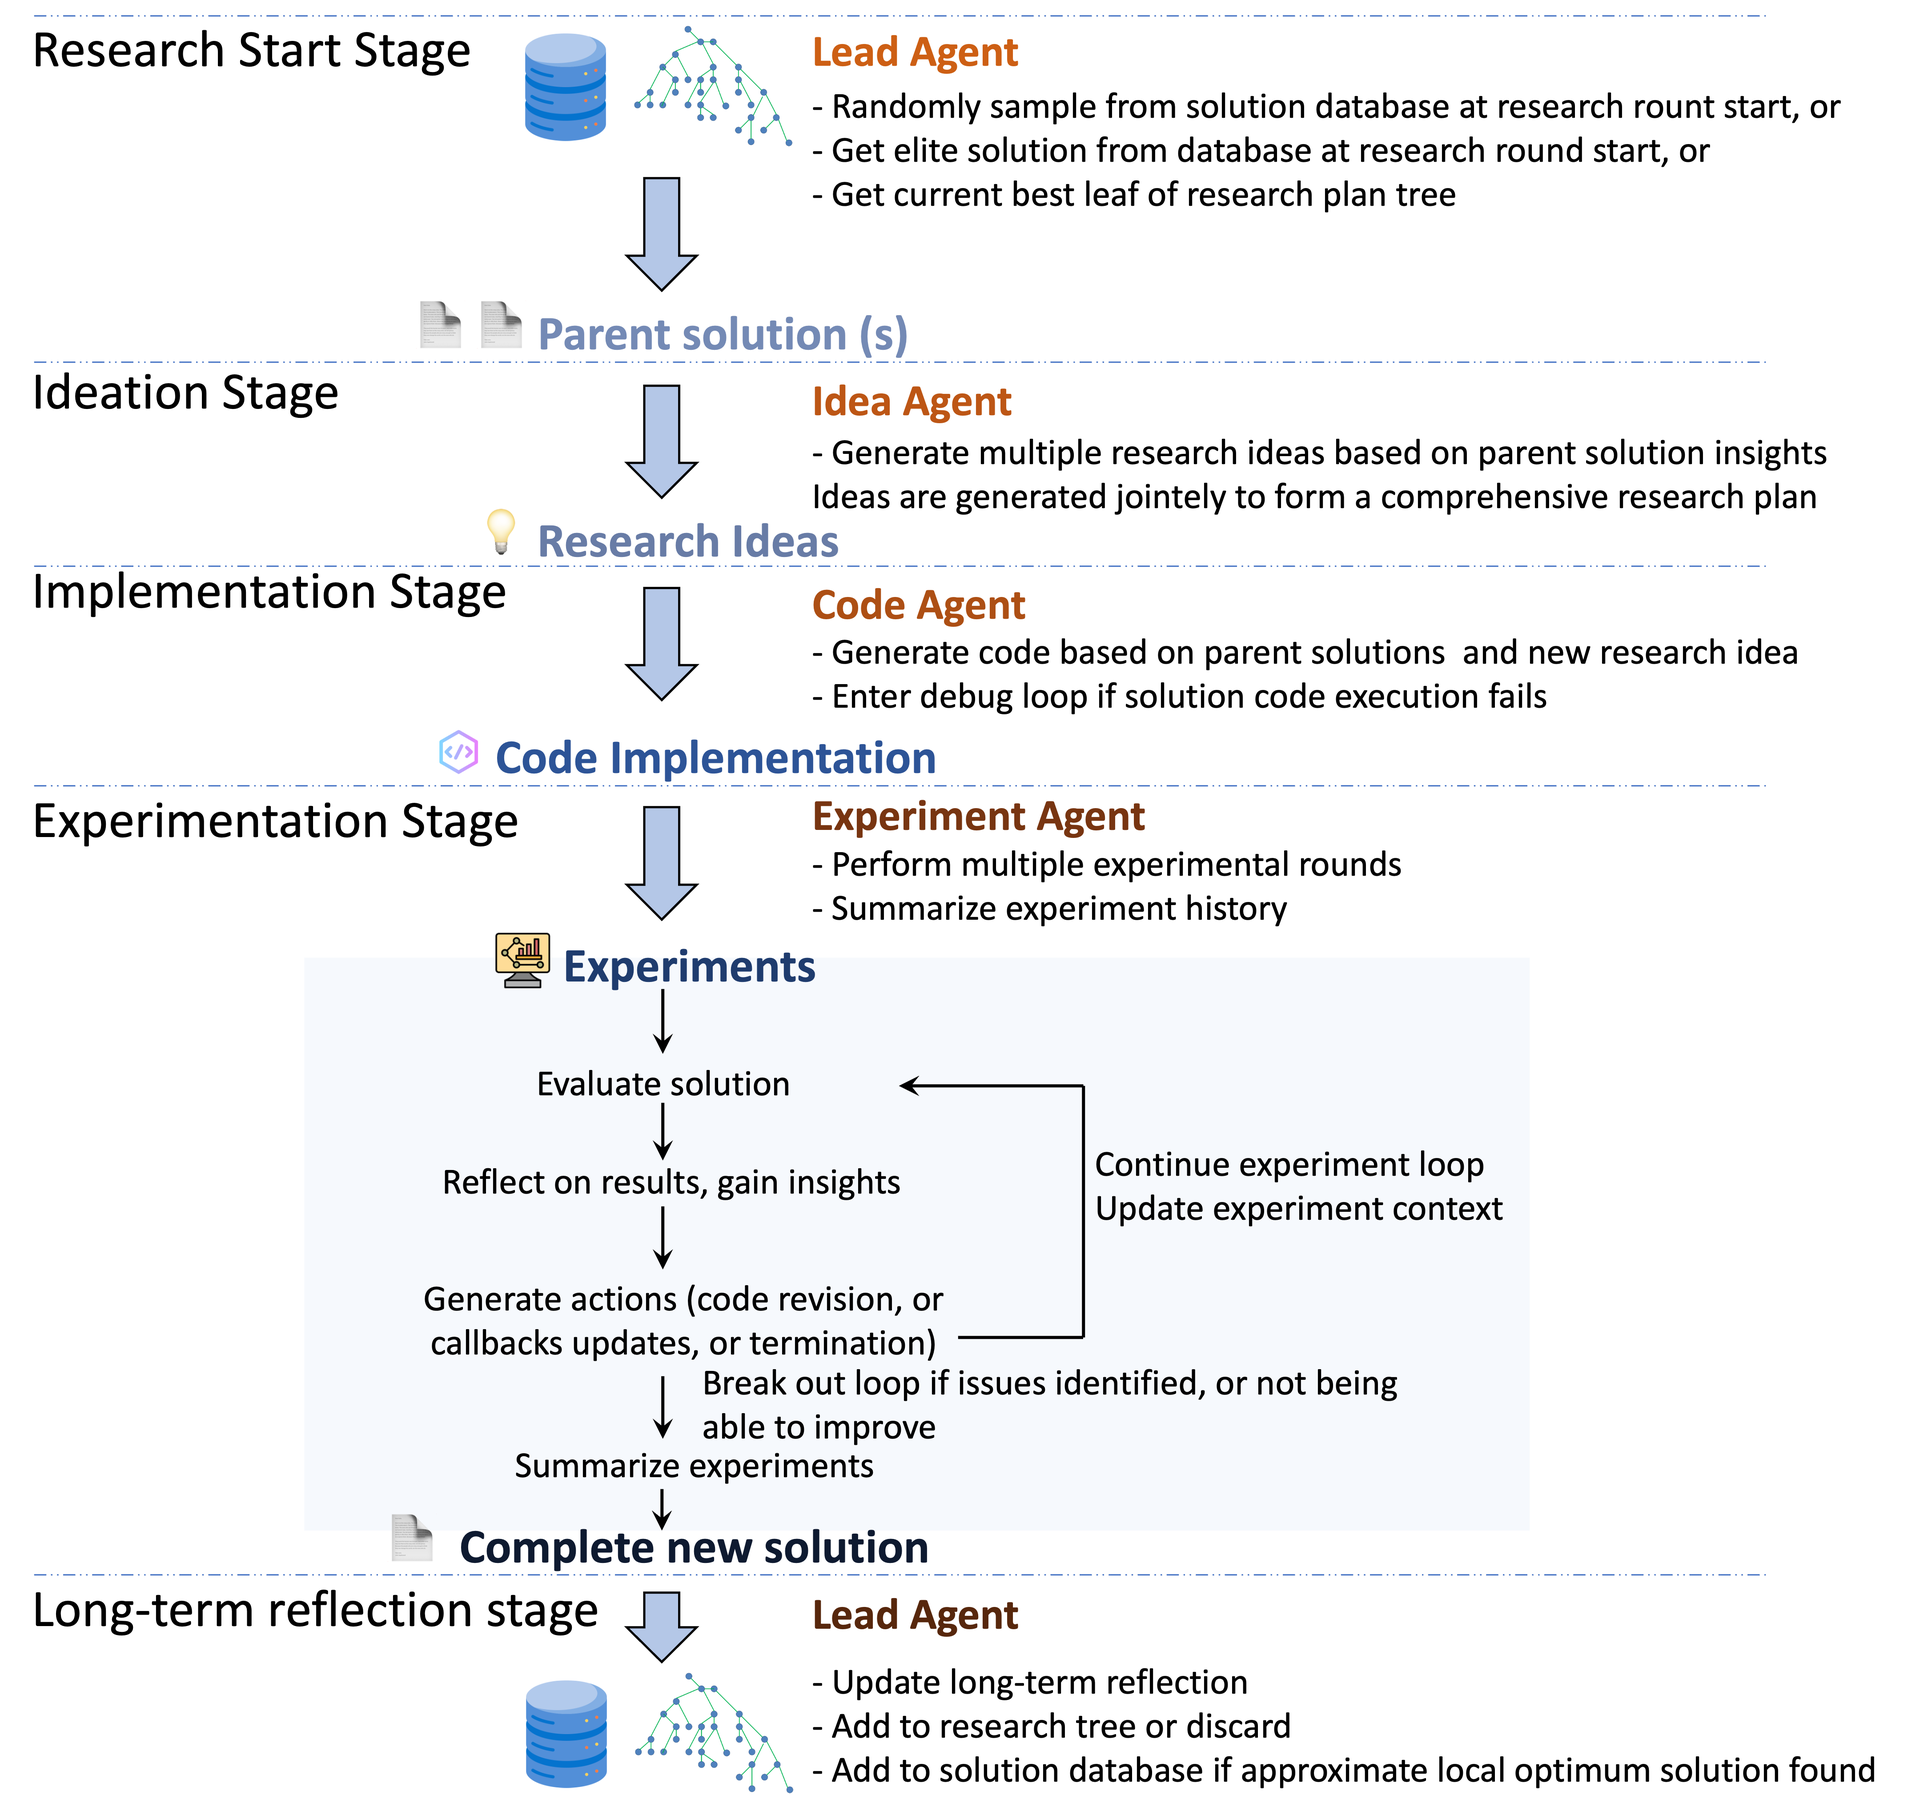
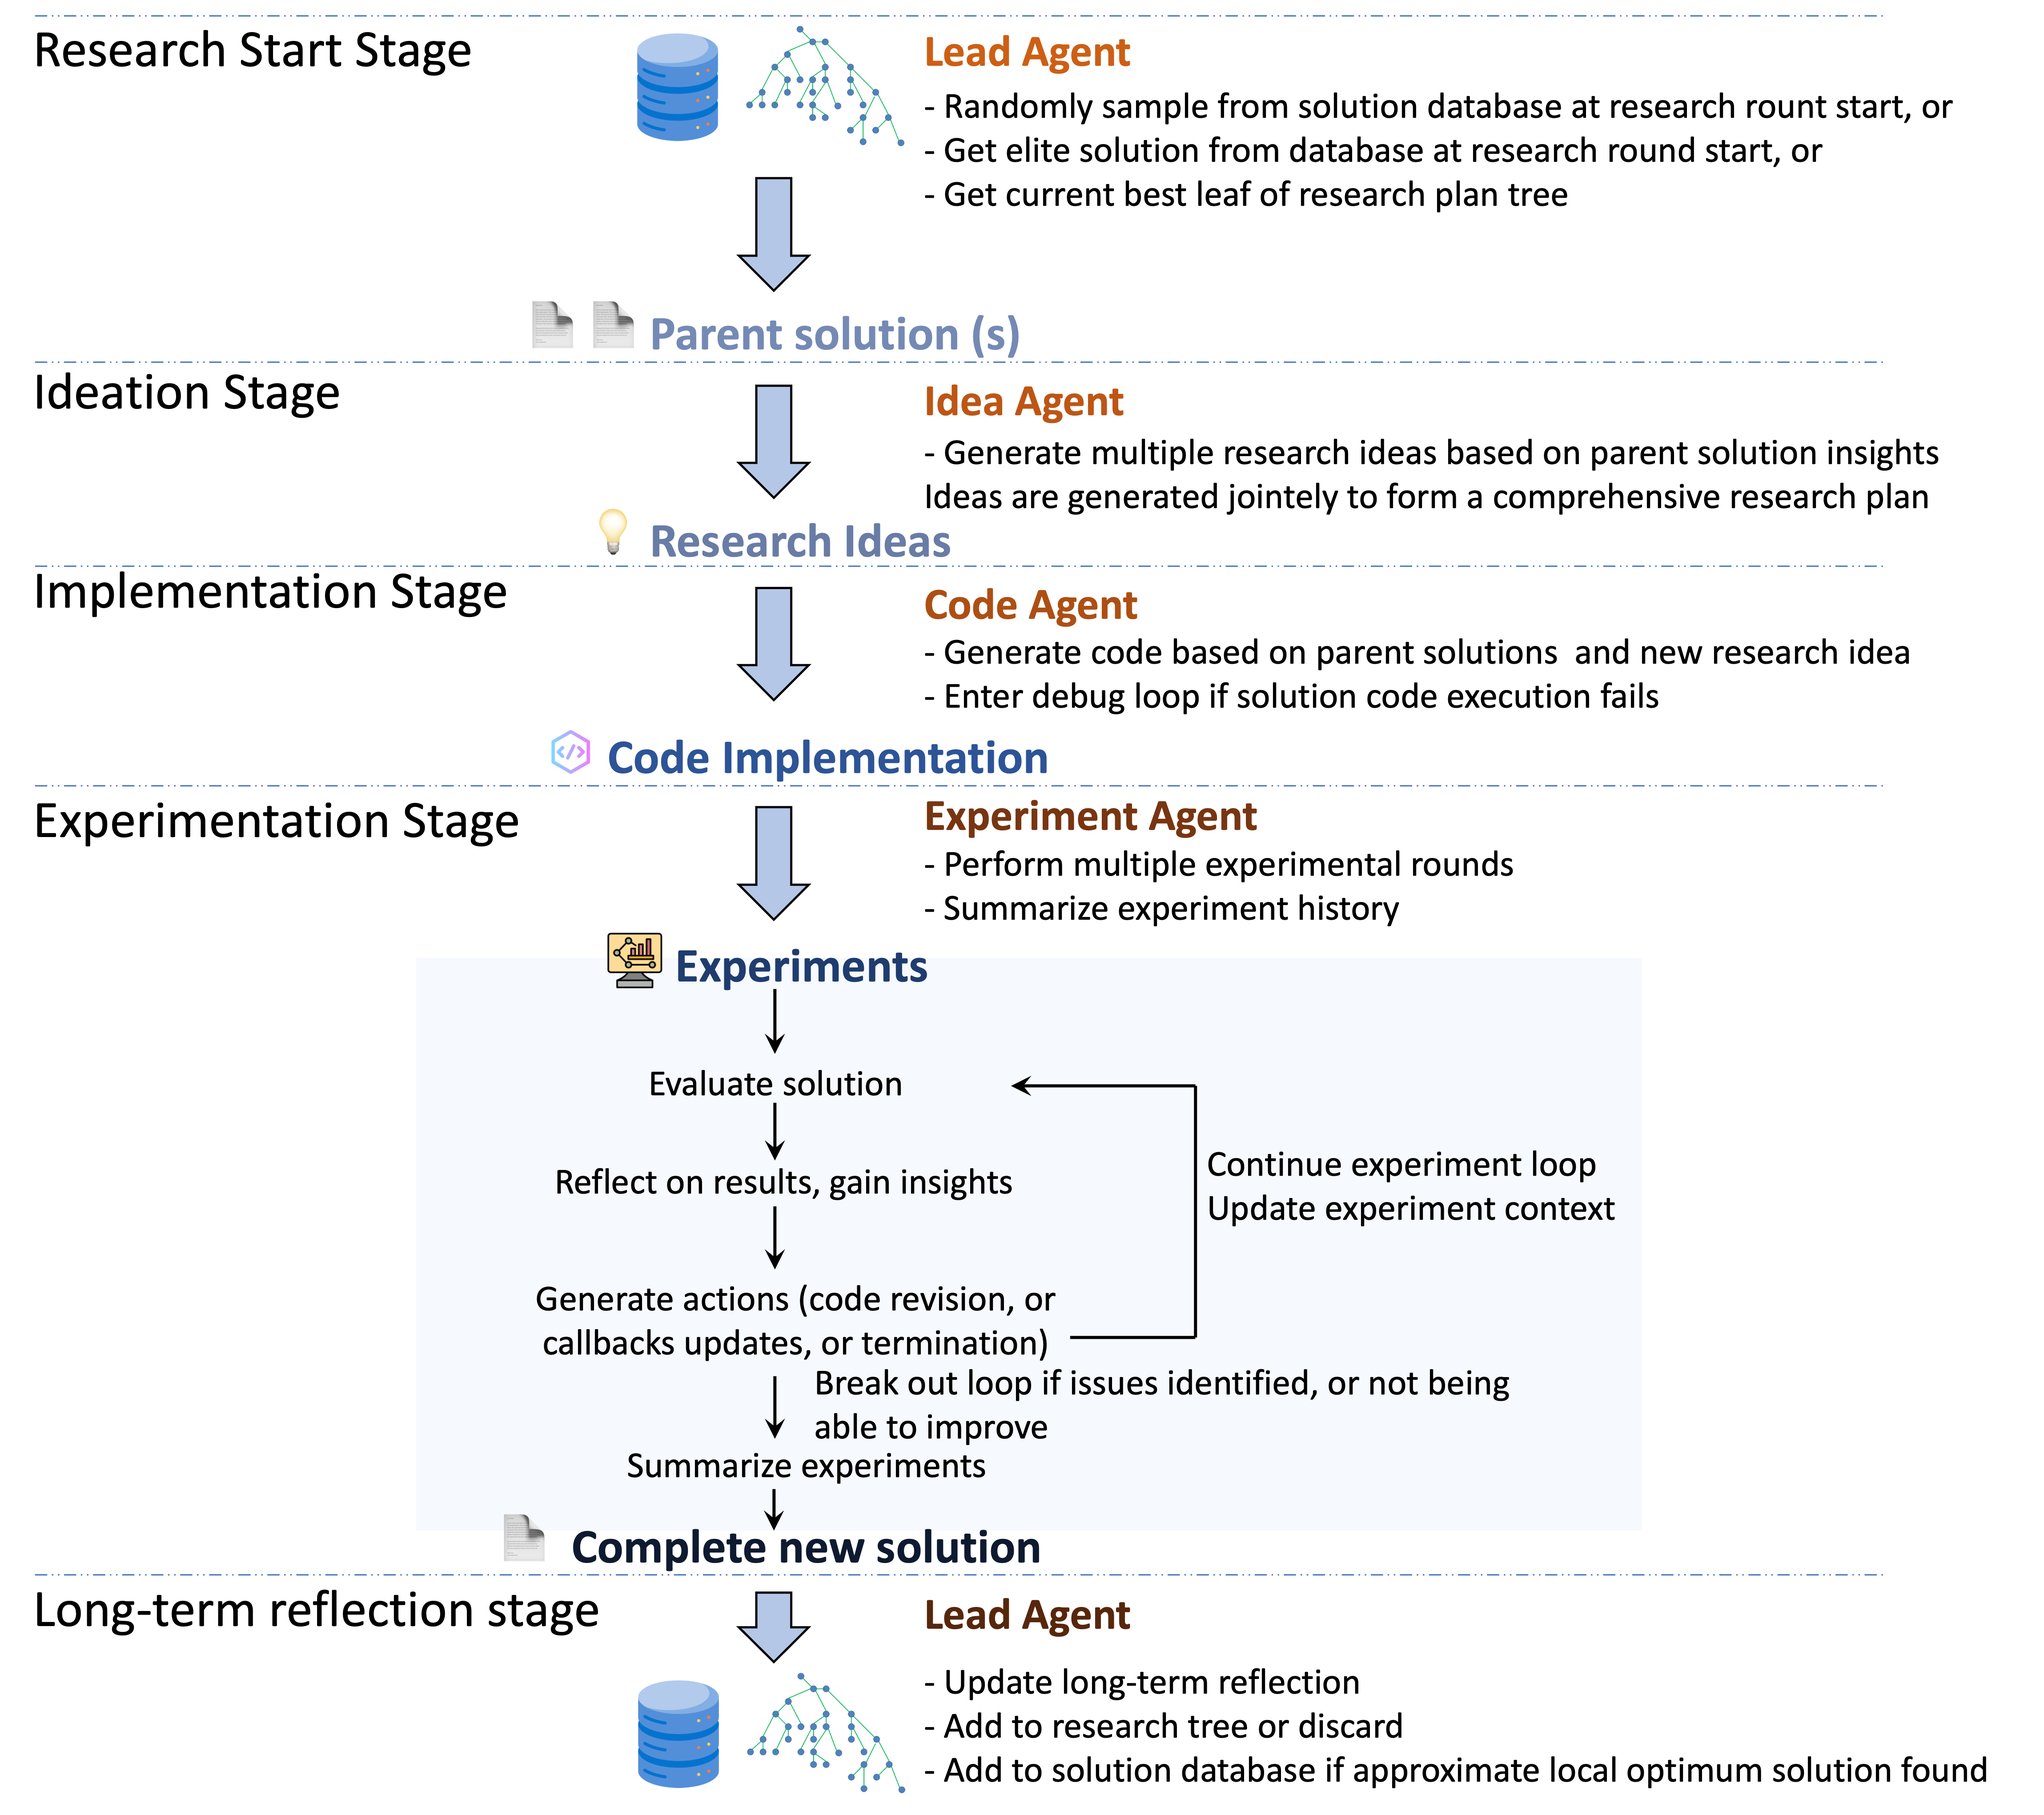
update readme

diff --git a/README.md b/README.md
@@ -488,6 +488,38 @@ List of baseline models:
 Note: Baseline models are only provided for benchmarking purposes at `[project_root]/baselines`. Baseline models don't share any module or configuration file with the OR-Agent codebase. Hence baseline models' components can be removed or modified without affecting the OR-Agent functionality. Check [baselines](baselines/README.md) for more details.
 
 
+### Research Tree Example
+
+```
+>[LeadAgent] Final research tree for research round #12:
+Format: Node <ID> (<score>): "<idea>"
+Legend:
+  ⊕ = solution expanded with improved children solution(s)
+  ✓ = terminal solution (local optimum, no improvement found)
+PS: Only root node may contain more than one solutions.
+========================================
+  Node [51 (21.12)]: ["Integrate Delaunay triangulation as a complementary global structure to MST, where edges from the Delaunay graph receive an adaptive bonus similar to MST but with a separate scaling factor tuned for geometric proximity. This addresses non-uniform city distributions more effectively than MST alone by preserving local spatial relationships while still providing global connectivity, and can be combined with the existing adaptive local neighborhood heuristic without adding excessive complexity."]
+    ├── ✓ Node 52 (21.07): "Develop a scale-invariant normalization scheme for distance-based heuristics by replacing absolute distances with normalized metrics such as distance-to-median or distance-to-local-entropy-threshold, enabling consistent performance across problem sizes (n=200, 500, 1000) without manual size-dependent bonus adjustments."
+    ├── ⊕ Node 53 (21.05): "Replace the KNN-based Delaunay approximation with a mutual Gabriel graph construction—where edge (i,j) is included if no other city lies within the circle having segment (i,j) as diameter—using only distance matrix information via triangle inequality checks; this better preserves empty-circle geometric properties of true Delaunay triangulation while remaining computable from pairwise distances."
+    │       └── ✓ Node 57 (21.03): "Develop a hybrid geometric-graph heuristic that combines the mutual Gabriel graph with a k-Nearest Neighbor Graph (k-NNG) using adaptive edge fusion: for each node, retain Gabriel edges that satisfy the empty-circle property and supplement them with additional k-NNG edges in low-connectivity regions (e.g., where degree < 3), using a learned or rule-based weighting scheme that balances geometric purity and topological robustness. This addresses the fragility of pure Gabriel graphs in clustered or sparse city distributions while preserving their geometric fidelity, and can be implemented efficiently using only distance matrix operations with O(kn²) complexity."
+    ├── ⊕ Node 54 (21.15): "Introduce dynamic, instance-aware bonus allocation by computing structural complexity metrics (e.g., coefficient of variation in local density, MST total weight relative to random baseline) and using them to modulate MST and Delaunay-like bonuses through learned or rule-based functions, rather than fixed formulas based solely on n and avg_distance."
+    │       ├── ✓ Node 71 (21.09): "Develop a coordinate-free geometric graph ensemble that combines multiple sparse proximity graphs—specifically the mutual Gabriel graph, relative neighborhood graph (RNG), and k-nearest neighbor graph (k-NNG)—using only distance matrix operations. Each graph captures complementary geometric properties: Gabriel edges enforce empty-circle conditions, RNG edges preserve local minimality, and k-NNG ensures robust connectivity in clustered regions. Assign each graph a base bonus weight, then dynamically modulate these weights using instance-level metrics derived from the distance matrix, such as the eigenvalue decay rate of the double-centered Gram matrix (as a proxy for effective dimensionality) and the variance of local k-NN distance ratios. This avoids coordinate reconstruction while significantly improving geometric fidelity over single-graph approximations like MST or 6-NNG alone."
+    │       └── ⊕ Node 72 (21.10): "Replace hand-crafted bonus scaling with a lightweight, offline-trained meta-heuristic predictor that maps structural features of the distance matrix to optimal attention bias coefficients. Extract a compact feature vector per instance including: (1) normalized MST weight, (2) coefficient of variation of 10-NN distances, (3) spectral gap of the distance-based Laplacian, (4) skewness of the pairwise distance distribution, and (5) effective rank of the distance matrix. Train a small MLP (2 layers, 64 units) on synthetic TSP instances (n=200,500,1000) with diverse city distributions to predict three scaling factors—one for the local adaptive neighborhood (-log(d)/rank), one for global connectivity (MST or Gabriel), and one for angular continuity proxies (e.g., based on triangle inequality residuals). Integrate this predictor into the heuristics function to enable truly instance-aware bias allocation without end-to-end POMO retraining."
+    │               └── ✓ Node 75 (21.09): "Develop a dynamic k-selection mechanism for the Delaunay-like k-NN graph that adapts k per node based on local density metrics (e.g., coefficient of variation of nearest neighbor distances) rather than using a fixed global k=8. Specifically, for each city i, compute its local density variation using the top 15 neighbors, then set k_i = max(3, min(12, base_k + α * (1 - cv_i))), where cv_i is the local CV and α is a tunable sensitivity parameter. This addresses the limitation of fixed k in non-uniform distributions—sparse regions get higher connectivity while dense regions avoid over-cluttering—and can be implemented with O(n²) operations without coordinate reconstruction."
+    ├── ✓ Node 55 (21.10): "Implement a lightweight coordinate reconstruction module using differentiable classical MDS (Multidimensional Scaling) as a pre-processing step to recover approximate 2D coordinates from the distance matrix, then compute true Delaunay triangulation and angular features (e.g., turn penalties, convex hull edges) to inject genuine geometric awareness into the attention bias."
+    └── ⊕ Node 56 (21.12): "Reformulate the local neighborhood heuristic to use entropy-weighted ranking instead of uniform rank decay: assign higher attention weights to neighbors that reduce uncertainty in local path continuation, measured by the entropy of angle distributions or distance variances in the reconstructed (or approximated) spatial neighborhood, thereby prioritizing structurally informative connections."
+            ├── ⊕ Node 65 (21.02): "Develop a hybrid attention bias scheme that combines coordinate-free geometric graphs (MST, mutual Gabriel graph, and k-NNG) with a lightweight differentiable MDS module to reconstruct approximate 2D coordinates, enabling the computation of true Delaunay triangulation and angular features (e.g., turn angles, local convexity) for more accurate geometric biasing. The reconstructed coordinates are used only within the heuristic function to compute structure-aware bonuses, while the rest of the POMO network remains coordinate-agnostic, preserving compatibility with pure distance-based inputs. This bridges the gap between purely metric heuristics and genuine spatial reasoning without requiring ground-truth coordinates."
+            │       └── ✓ Node 67 (20.98): "Develop a learned, lightweight fusion mechanism that dynamically weights the contributions of local neighborhood heuristics (-log(distance)/rank), MST connectivity, and k-NN geometric proximity based on instance-level features (e.g., local density variance, MST weight ratio, effective dimensionality estimated via distance matrix eigenvalues). Instead of fixed or rule-based bonuses, use a small 2-layer MLP trained offline on synthetic TSP instances to predict optimal scaling coefficients for each heuristic component, ensuring adaptive balance between local and global signals without end-to-end integration into POMO."
+            └── ⊕ Node 66 (21.12): "Design a dynamic, instance-adaptive normalization and bonus allocation mechanism that replaces fixed scaling factors (e.g., MST bonus = 0.5) with data-driven modulation based on intrinsic problem characteristics such as local density variance, MST-to-random-weight ratio, and effective dimensionality estimated from the distance matrix. Use these metrics to compute per-instance scaling coefficients for each heuristic component (local neighborhood, MST, Delaunay-like graph), ensuring consistent bias strength across problem sizes (n=200, 500, 1000) and city distributions. Implement this via closed-form rules or a small learnable mapping trained offline on synthetic TSP instances, avoiding end-to-end integration complexity."
+                    └── ✓ Node 70 (21.09): "Introduce a tour-construction-aware dynamic biasing mechanism that simulates partial greedy path extensions during heuristic computation to identify 'critical edges'—those that frequently appear in early-stage greedy tours or resolve bottlenecks in sparse regions. Using only the distance matrix, perform lightweight look-ahead simulations (e.g., 2-step nearest neighbor expansions from each node) and assign additional attention bonuses to edges that consistently enable high-continuity paths or connect low-degree regions. This goes beyond static graph structures (MST, k-NNG) by incorporating implicit path dynamics, addressing the unresolved issue in Node 66 that current heuristics ignore tour construction behavior, and can be implemented efficiently with O(n²) tensor operations without full rollout simulation."
+========================================
+Total nodes: 14 | Total expanded solutions: 7 | Total pending leaves: 0 | Total terminal leaves: 7
+
+>[LeadAgent] Lead agent #1 research round #12 finished | number of solutions to return: 7 (IDs: 52, 55, 57, 67, 70, 71, 75)
+>[Database] Best score updated to 20.98
+```
+
+
 ### Results on 12 Operations Research Benchmark Problems
 
 Experiment data is shared at `outputs/` and `research_results/`. Test scripts are available at `tests/` for reproducibility. For detailed results analysis, see the Jupyter notebooks in `research_results/`.
